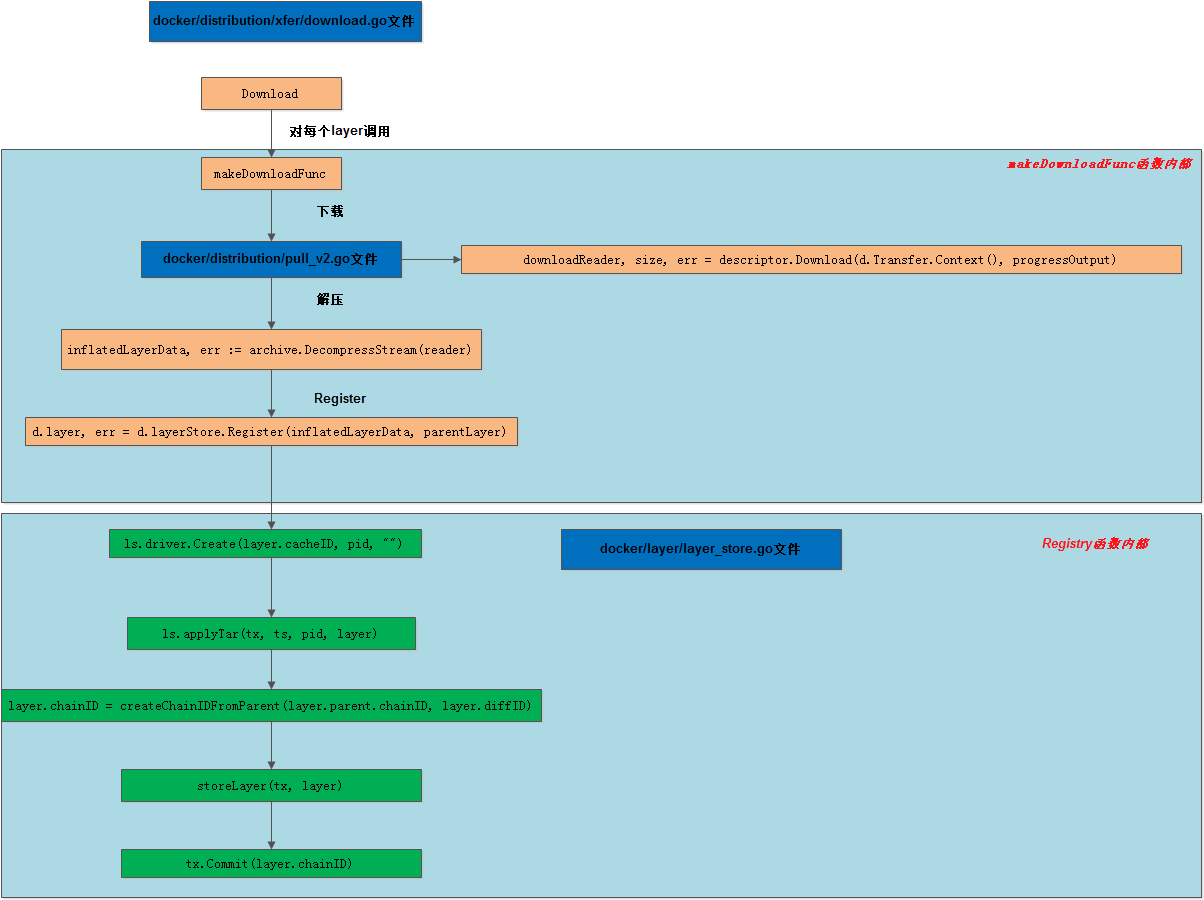
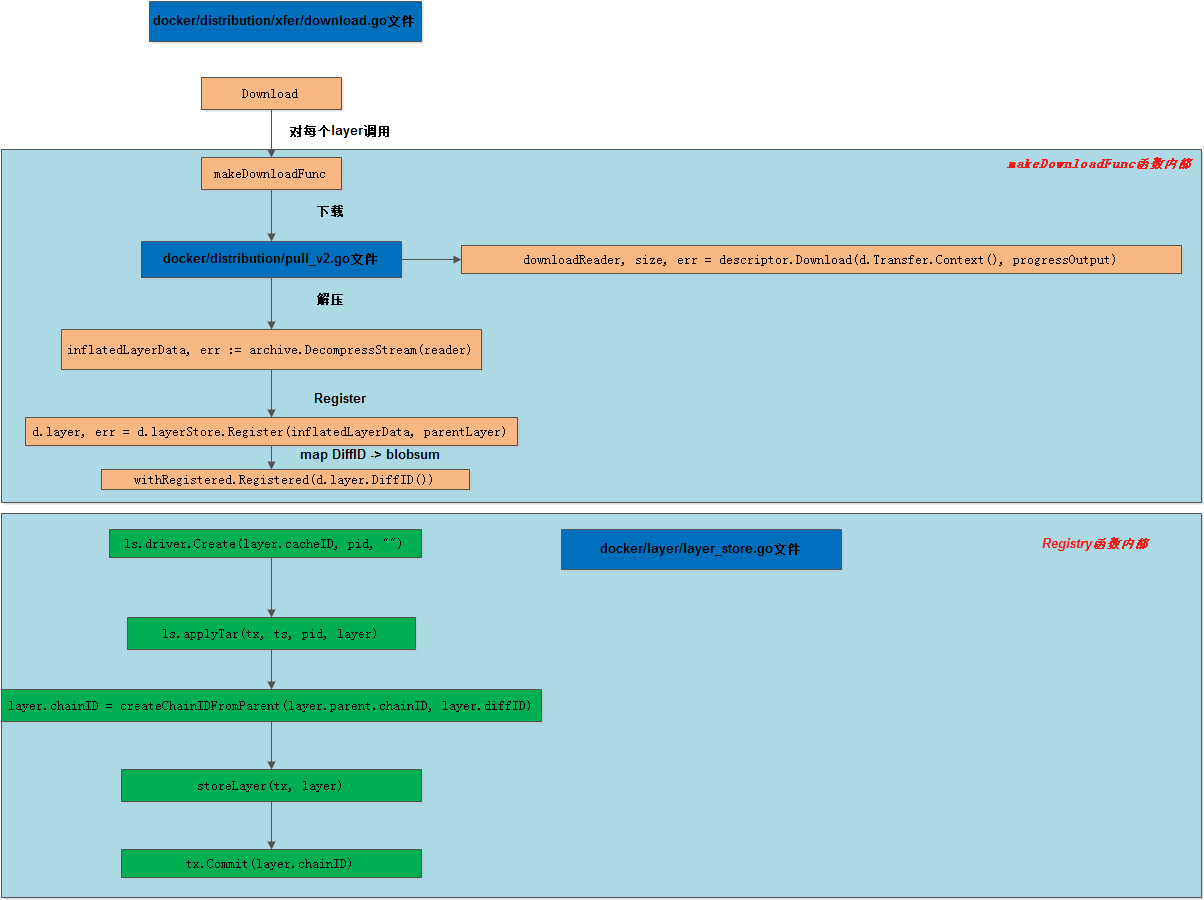
Update 2016-10-26-docker-registry-pull-manifest-v2.md

Changed region(s): [[0.0615, 0.4978, 0.3995, 0.56]]

diff --git a/_posts/2016-10-26-docker-registry-pull-manifest-v2.md b/_posts/2016-10-26-docker-registry-pull-manifest-v2.md
@@ -2695,6 +2695,8 @@ func ChangesSize(newDir string, changes []Change) int64 {
     └── metadata.db
 ```
 
+docker pull函数调用流程：
+
 ![](/public/img/docker-registry/2016-10-26-docker-registry-pull-manifest-v2/pull_function_process.png)
 
 Cache mapping from this layer's DiffID to the blobsum
